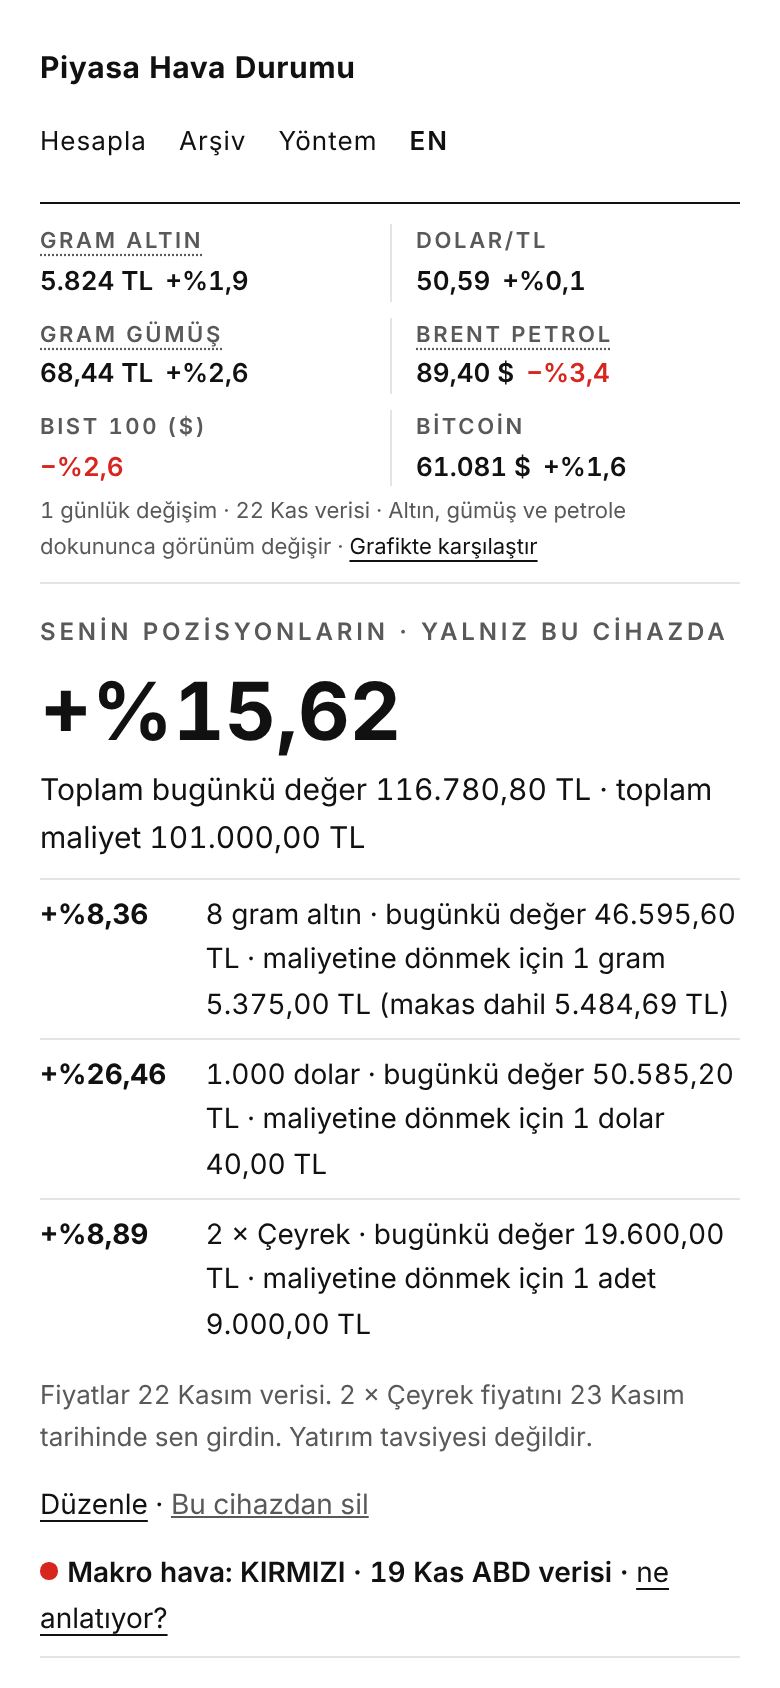
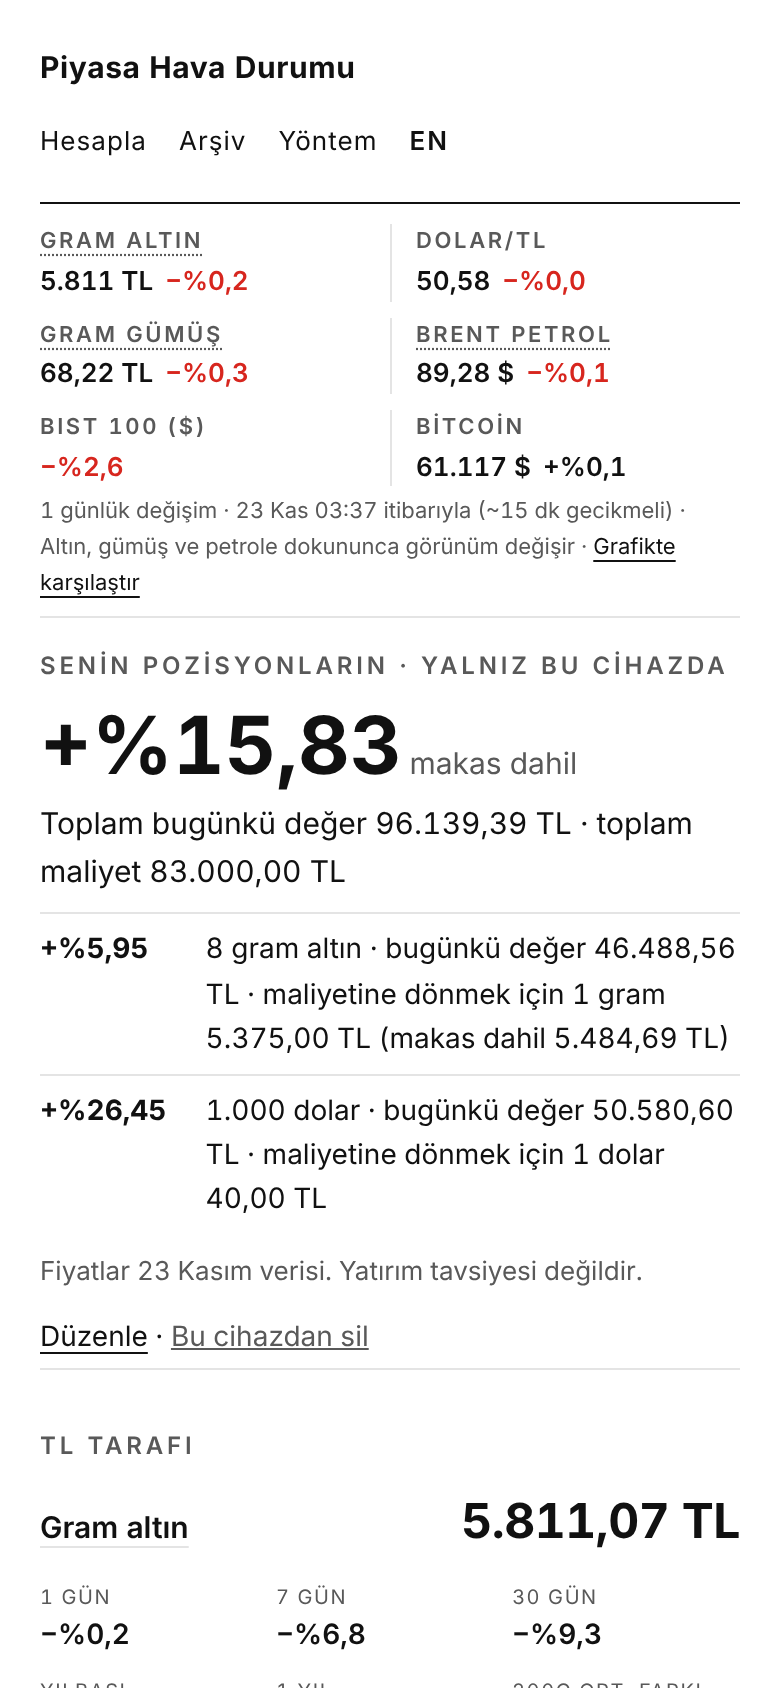
Review round 5: contextual guide links, macro line hidden next to personal positions, spread-deducted headline, falling-rate scenario, calculator-first home meta
Claude-Session: https://claude.ai/code/session_01HYDefgn5NWFqFd8ndNssHq

diff --git a/piyasa/pozisyon.js b/piyasa/pozisyon.js
@@ -85,19 +85,27 @@
     if (rows.length === 1) {
       var x = rows[0];
       host.appendChild(el("p", "label", L("Senin pozisyonun · yalnız bu cihazda", "Your position · on this device only")));
-      host.appendChild(el("p", "poz-big" + (x.r.plPct < 0 ? " neg" : ""), pct(x.r.plPct)));
-      host.appendChild(el("p", "poz-line", x.line));
+      // with a spread, the headline number is what selling today would really give (spread deducted)
+      var pl1 = x.r.spreadPct ? x.r.netPlPct : x.r.plPct;
+      var big1 = el("p", "poz-big" + (pl1 < 0 ? " neg" : ""), pct(pl1));
+      if (x.r.spreadPct) big1.appendChild(el("span", "poz-sub", L(" makas dahil", " after spread")));
+      host.appendChild(big1);
+      host.appendChild(el("p", "poz-line", x.line + (x.r.spreadPct ? L(" · makassız ", " · before spread ") + pct(x.r.plPct) : "")));
     } else {
       host.appendChild(el("p", "label", L("Senin pozisyonların · yalnız bu cihazda", "Your positions · on this device only")));
       // totals in TL; a total P/L only when every cost was entered in TL (no guessing past exchange rates)
-      var valTl = 0, costTl = 0, allTl = true;
+      var valTl = 0, costTl = 0, allTl = true, anySpread = false;
       rows.forEach(function (x) {
-        valTl += x.r.ccy === "USD" ? x.r.value * u : x.r.value;
+        var v = x.r.spreadPct ? x.r.netValue : x.r.value;      // spread deducted where the user entered one
+        if (x.r.spreadPct) anySpread = true;
+        valTl += x.r.ccy === "USD" ? v * u : v;
         if (x.r.ccy === "TL") costTl += x.r.costTotal; else allTl = false;
       });
       if (allTl && costTl > 0) {
         var tp = (valTl / costTl - 1) * 100;
-        host.appendChild(el("p", "poz-big" + (tp < 0 ? " neg" : ""), pct(tp)));
+        var bigT = el("p", "poz-big" + (tp < 0 ? " neg" : ""), pct(tp));
+        if (anySpread) bigT.appendChild(el("span", "poz-sub", L(" makas dahil", " after spread")));
+        host.appendChild(bigT);
         host.appendChild(el("p", "poz-line", L("Toplam bugünkü değer ", "Total value today ") + money(valTl, "TL") + L(" · toplam maliyet ", " · total cost ") + money(costTl, "TL")));
       } else {
         host.appendChild(el("p", "poz-big", money(valTl, "TL")));
@@ -107,7 +115,8 @@
       var ul = el("ul", "poz-rows");
       rows.forEach(function (x) {
         var li = el("li");
-        li.appendChild(el("span", "poz-pl" + (x.r.plPct < 0 ? " neg" : ""), pct(x.r.plPct)));
+        var plr = x.r.spreadPct ? x.r.netPlPct : x.r.plPct;
+        li.appendChild(el("span", "poz-pl" + (plr < 0 ? " neg" : ""), pct(plr)));
         li.appendChild(el("span", null, x.line));
         ul.appendChild(li);
       });
@@ -133,12 +142,17 @@
       host.hidden = true;
       var tl = document.querySelector(".tl-link.top");
       if (tl) tl.hidden = false;
+      var ml2 = document.getElementById("macro-line");
+      if (ml2 && ml2.firstChild) { ml2.removeAttribute("data-hide"); ml2.hidden = false; }
     });
     act.appendChild(del);
     host.appendChild(act);
     host.hidden = false;
     var tlLink = document.querySelector(".tl-link.top");     // the card already links to the calculator
     if (tlLink) tlLink.hidden = true;
+    // keep the macro level away from personal positions (it is a US-data market summary, not about them)
+    var ml = document.getElementById("macro-line");
+    if (ml) { ml.setAttribute("data-hide", "1"); ml.hidden = true; }
   }
 
   fetch(DATA + "tl.json", { cache: "no-cache", credentials: "omit", referrerPolicy: "no-referrer" })

diff --git a/piyasa/index.html b/piyasa/index.html
@@ -5,16 +5,16 @@
 <meta name="viewport" content="width=device-width,initial-scale=1">
 <meta http-equiv="Content-Security-Policy" content="default-src 'self'; script-src 'self'; style-src 'self'; font-src 'self'; img-src 'self' data:; connect-src 'self' https://raw.githubusercontent.com; base-uri 'self'; form-action 'none'; object-src 'none'">
 <meta name="referrer" content="strict-origin-when-cross-origin">
-<title>Piyasa Hava Durumu — günlük makro hava, gram altın, dolar/TL</title>
-<meta name="description" content="Türk yatırımcı için sakin, günlük piyasa verisi: likidite, dolar, kredi, nakde kaçış ve petrol kurallarından derlenen makro hava seviyesi. Yatırım tavsiyesi değildir.">
+<title>Piyasa Hava Durumu — altın ve dolar pozisyon hesaplama, günlük piyasa</title>
+<meta name="description" content="Gram altın, çeyrek, dolar ve euro birikimin bugün ne durumda? Maliyetini gir, kâr/zarar ve makas dahil başa baş fiyatını gör; günlük piyasa özeti sade Türkçe. Verin cihazından çıkmaz. Yatırım tavsiyesi değildir.">
 <link rel="canonical" href="https://samiboran.github.io/sweeplab/piyasa/">
 <link rel="alternate" hreflang="tr" href="https://samiboran.github.io/sweeplab/piyasa/">
 <link rel="alternate" hreflang="en" href="https://samiboran.github.io/sweeplab/piyasa/?lang=en">
 <meta property="og:type" content="website">
 <meta property="og:site_name" content="Piyasa Hava Durumu">
 <meta property="og:locale" content="tr_TR">
-<meta property="og:title" content="Piyasa Hava Durumu — günlük makro hava">
-<meta property="og:description" content="Likidite, dolar, kredi, nakde kaçış ve petrol: dokuz kuraldan derlenen günlük makro hava; gram altın, gram gümüş, dolar/TL ve BIST 100. Yatırım tavsiyesi değildir.">
+<meta property="og:title" content="Piyasa Hava Durumu — altınım, dolarım ne durumda?">
+<meta property="og:description" content="Maliyetini gir, kâr/zarar ve makas dahil başa baş fiyatını gör; gram altın, gümüş, dolar/TL, BIST 100 ve günlük piyasa özeti. Yatırım tavsiyesi değildir.">
 <meta property="og:url" content="https://samiboran.github.io/sweeplab/piyasa/">
 <meta property="og:image" content="https://raw.githubusercontent.com/samiboran/sweeplab/data-feed/data/site/og.png">
 <meta property="og:image:width" content="1200">
@@ -22,8 +22,8 @@
 <meta property="og:image:alt" content="Günün makro hava kartı: tarih ve seviye">
 <meta name="twitter:card" content="summary_large_image">
 <meta name="twitter:image" content="https://raw.githubusercontent.com/samiboran/sweeplab/data-feed/data/site/og.png">
-<meta name="twitter:title" content="Piyasa Hava Durumu — günlük makro hava">
-<meta name="twitter:description" content="Dokuz kuraldan derlenen günlük makro hava ve TL tarafı. Yatırım tavsiyesi değildir.">
+<meta name="twitter:title" content="Piyasa Hava Durumu — altınım, dolarım ne durumda?">
+<meta name="twitter:description" content="Maliyetini gir, kâr/zarar ve makas dahil başa baş fiyatını gör; günlük piyasa özeti sade Türkçe. Yatırım tavsiyesi değildir.">
 <link rel="preload" href="fonts/inter-latin-700-normal.woff2" as="font" type="font/woff2" crossorigin>
 <link rel="icon" href="favicon.svg" type="image/svg+xml">
 <link rel="stylesheet" href="style.css">

diff --git a/piyasa/hesapla.js b/piyasa/hesapla.js
@@ -301,6 +301,7 @@
     if (r.spreadPct) out.appendChild(el("p", "mute small", L(
       "Makas satırları, piyasa fiyatı yerine bozdururken eline geçecek fiyatla hesaplanır. Makası sen girdin; gerçek makas yere ve saate göre değişir.",
       "The spread rows use the price you would actually receive when selling instead of the market price. You entered the spread; real spreads vary by dealer and time.")));
+    if (r.spreadPct) out.appendChild(guide(L("Makas nasıl hesaplanır?", "How is the spread calculated?"), "altin-hesaplama.html#makas"));
     related(a, out);
 
     if (a === "bist100" || a === "diger" || a === "euro") return;
@@ -317,7 +318,8 @@
     var b2 = el("tbody");
     r.scenarios.forEach(function (sc) {
       var tr = el("tr");
-      tr.appendChild(el("th", null, num(sc.usdtry, 2) + (sc.shockPct ? (EN ? " (+" + sc.shockPct + "%)" : " (+%" + sc.shockPct + ")") : L(" (bugün)", " (today)"))));
+      var sg = sc.shockPct > 0 ? "+" : "−", ab = Math.abs(sc.shockPct);
+      tr.appendChild(el("th", null, num(sc.usdtry, 2) + (sc.shockPct ? (EN ? " (" + sg + ab + "%)" : " (" + sg + "%" + ab + ")") : L(" (bugün)", " (today)"))));
       if (showBe) tr.appendChild(el("td", null, num(r.ccy === "TL" ? sc.breakevenUsd : sc.breakevenTl, 2)));
       tr.appendChild(el("td", null, sc.valueTl == null ? "—" : num(sc.valueTl, 0)));
       b2.appendChild(tr);
@@ -335,6 +337,7 @@
         ? "Orta sütun: TL maliyetine dönmek için varlığın dolar fiyatının ne olması gerektiği" + (A.metal ? " (1 ons = 31,1035 gram)" : "") + ". Değer sütunu: dolar fiyatı bugünkü gibi kalırsa TL karşılığı."
         : "Maliyet dolar cinsinden; kur yalnız TL karşılığını değiştirir. Değer sütunu: dolar fiyatı bugünkü gibi kalırsa TL karşılığı.";
     out.appendChild(el("p", "mute small", note));
+    if (a !== "dolar") out.appendChild(guide(L("Kur ile altın fiyatı nasıl bağlı?", "How are the exchange rate and gold linked?"), "kolay-ekonomi.html#kur-altin"));
   }
 
   // ---- "Bu hafta ne oldu?": the asset's 7-day move + up to 2 items of today's digest on the same topic.
@@ -344,6 +347,10 @@
     dolar: ["Türkiye", "Merkez bankaları"], euro: ["Türkiye", "Merkez bankaları"], bist100: ["Türkiye", "Şirketler"],
     btc: ["Kripto"], eth: ["Kripto"] };
   var TL_ID = { gram_altin: "gram_altin", gram_gumus: "gram_gumus", dolar: "dolar", bist100: "bist100_usd", btc: "btc", eth: "eth" };
+  function guide(text, href) {           // contextual link from a result into the plain-language pages
+    var p = el("p", "guide-link small"), x = el("a", null, text + " →");
+    x.href = href; p.appendChild(x); return p;
+  }
   function related(a, out) {
     if (!OZET_ASKED) {
       OZET_ASKED = true;
@@ -386,6 +393,10 @@
     var ml = el("a", null, L("Günün özeti ve TL tarafı ana sayfada", "Today's digest and the lira side on the home page"));
     ml.href = "./" + (EN ? "?lang=en" : "");
     more.appendChild(ml);
+    more.appendChild(document.createTextNode(" · "));
+    var ke = el("a", null, L("Kolay ekonomi: kur, enflasyon, faiz", "Plain economics: rates, inflation, interest"));
+    ke.href = "kolay-ekonomi.html";
+    more.appendChild(ke);
     out.appendChild(more);
   }
 

diff --git a/tests/hesapla_test.js b/tests/hesapla_test.js
@@ -1,6 +1,7 @@
 // node tests/hesapla_test.js — position calculator unit tests (S4d)
 const assert = require("assert");
 const C = require("../piyasa/hesapla-core.js");
+const at = (r, k) => r.scenarios.filter(s => s.shockPct === k)[0];
 const close = (a, b, eps) => assert.ok(Math.abs(a - b) < eps, `${a} != ${b}`);
 
 // spec: cost 102 TL/gram silver -> breakeven ounce at USDTRY 50.58 ≈ $62.7, at 60 ≈ $52.9
@@ -12,23 +13,23 @@ const r = C.compute("gram_gumus", 102, "TL", 10, p);
 close(r.plPct, (85 / 102 - 1) * 100, 1e-9);
 close(r.toBreakevenPct, (102 / 85 - 1) * 100, 1e-9);
 close(r.value, 850, 1e-9);
-close(r.scenarios[0].breakevenUsd, 62.72, 0.01);
-assert.strictEqual(r.scenarios[0].breakevenUsdUnit, "ons");
-close(r.scenarios[2].usdtry, 50.58 * 1.2, 1e-9);
+close(at(r, 0).breakevenUsd, 62.72, 0.01);
+assert.strictEqual(at(r, 0).breakevenUsdUnit, "ons");
+close(at(r, 20).usdtry, 50.58 * 1.2, 1e-9);
 // TL value with silver USD price unchanged and +10% USDTRY -> +10%
-close(r.scenarios[1].valueTl, 850 * 1.1, 1e-6);
+close(at(r, 10).valueTl, 850 * 1.1, 1e-6);
 
 // BTC priced in USD, cost entered in USD
 const b = C.compute("btc", 50000, "USD", 0.5, p);
 close(b.plPct, 20, 1e-9);
-close(b.scenarios[1].breakevenTl, 50000 * 50.58 * 1.1, 1e-6);
+close(at(b, 10).breakevenTl, 50000 * 50.58 * 1.1, 1e-6);
 // BTC with TL cost
 const bt = C.compute("btc", 3000000, "TL", 1, p);
 close(bt.price, 60000 * 50.58, 1e-6);
 
 // dolar and BIST 100 are TL-only
 assert.strictEqual(C.compute("dolar", 40, "USD", 100, p).ccy, "TL");
-assert.strictEqual(C.compute("bist100", 9000, "TL", 1, p).scenarios[1].valueTl, null);
+assert.strictEqual(at(C.compute("bist100", 9000, "TL", 1, p), 10).valueTl, null);
 
 // invalid input
 assert.strictEqual(C.compute("gram_altin", 0, "TL", 1, p), null);
@@ -54,7 +55,7 @@ assert.strictEqual(av.amount, 8); close(av.cost, 5375, 1e-9); assert.strictEqual
 assert.strictEqual(C.averageLots([]), null);
 // custom asset (çeyrek): user-entered price, TL only, no TL scenario values
 const cq = C.compute("diger", 9000, "USD", 2, { usdtry: 50, custom_tl: 9900 });
-assert.strictEqual(cq.ccy, "TL"); close(cq.plPct, 10, 1e-9); assert.strictEqual(cq.scenarios[1].valueTl, null);
+assert.strictEqual(cq.ccy, "TL"); close(cq.plPct, 10, 1e-9); assert.strictEqual(at(cq, 10).valueTl, null);
 assert.strictEqual(C.compute("diger", 9000, "TL", 2, { usdtry: 50 }), null);
 console.log("hesapla lots/custom: ok");
 
@@ -66,3 +67,7 @@ assert.deepStrictEqual(st.list.map(x => x.a), ["dolar", "gram_gumus"]); assert.s
 assert.strictEqual(C.normalizeStore(null).list.length, 0);
 console.log("hesapla store: ok");
 
+
+// falling-rate row exists
+assert.strictEqual(r.scenarios[0].shockPct, -10); close(r.scenarios[0].usdtry, 50.58 * 0.9, 1e-9);
+console.log("hesapla scenarios: ok");

diff --git a/piyasa/altin-hesaplama.html b/piyasa/altin-hesaplama.html
@@ -37,21 +37,22 @@
     <p class="tl-link top"><a href="hesapla.html">Hesaplayıcıyı aç: maliyetini gir, sonucu hemen gör</a></p>
 
     <section>
-      <h2>1. Temel hesap</h2>
+      <h2 id="temel">1. Temel hesap</h2>
       <p>10 gram altını gramı ortalama 5.800 TL'den aldığını düşün. Toplam maliyetin 10 × 5.800 = <strong>58.000 TL</strong>.</p>
       <p>Bugün gram altın 5.715 TL ise elindeki altının değeri 10 × 5.715 = <strong>57.150 TL</strong>. Fark −850 TL, yani maliyetine göre <strong>−%1,47</strong>.</p>
       <p>Maliyetine dönmek için gram fiyatının yeniden 5.800 TL'ye çıkması gerekir; bugünden <strong>%1,49</strong>'luk bir yükseliş.</p>
     </section>
 
     <section>
-      <h2>2. Makas: bozdururken eline geçen tutar</h2>
+      <h2 id="makas">2. Makas: bozdururken eline geçen tutar</h2>
       <p>Kuyumcu ve bankalar altını sana sattıkları fiyattan daha düşük bir fiyatla geri alır. Bu farka makas denir. Makas %2 ise yukarıdaki 57.150 TL'lik altını bozdurduğunda eline yaklaşık 57.150 × 0,98 = <strong>56.007 TL</strong> geçer.</p>
       <p>Makas hesaba katılınca maliyetine dönmek için gereken piyasa fiyatı 5.800 ÷ 0,98 = <strong>5.918,37 TL</strong> olur; bugünden %3,56'lık yükseliş. Yani makas, başa baş noktasını yukarı iter.</p>
       <p>Makası bilmiyorsan aldığın yerin o anki satış ve alış fiyatına bak: satış 5.772, alış 5.658 ise makas (5.772 − 5.658) ÷ 5.772 ≈ %1,98. Hesaplayıcıda bu iki fiyatı yazınca makas kendiliğinden hesaplanır.</p>
+      <p>Not: sitedeki gram fiyatı ons ve kurdan hesaplanan piyasa fiyatıdır; kuyumcunun alış ve satış fiyatı genellikle bunun iki yanındadır. Makasın tamamını bu fiyattan düşmek, başa baş fiyatını biraz yüksek gösterebilir; en doğru sonuç için bozdurma fiyatını "Diğer (fiyatı sen gir)" ile girebilirsin.</p>
     </section>
 
     <section>
-      <h2>3. Farklı zamanlarda birden çok alım</h2>
+      <h2 id="ortalama">3. Farklı zamanlarda birden çok alım</h2>
       <p>5 gramı 5.000 TL'den, 3 gramı 6.000 TL'den aldıysan ortalama maliyet basit ortalama değil, ağırlıklı ortalamadır: (5 × 5.000 + 3 × 6.000) ÷ 8 = <strong>5.375 TL</strong>. Hesaplayıcıdaki "Farklı fiyatlardan birden çok alım" bölümü bunu senin yerine yapar.</p>
     </section>
 

diff --git a/piyasa/kolay-ekonomi.html b/piyasa/kolay-ekonomi.html
@@ -44,14 +44,14 @@
       <h2 id="kur-altin">Dolar yükselince gram altın neden yükselir?</h2>
       <p>Altının dünya fiyatı dolarla ve "ons" başına belirlenir. Türkiye'deki gram altın fiyatı bundan hesaplanır: <strong>gram = ons fiyatı × dolar/TL ÷ 31,1035</strong>.</p>
       <p>Yani gram altını iki şey birlikte belirler: altının dünyadaki fiyatı ve kur. Ons 3.600 $, kur 50,50 TL iken gram yaklaşık 5.845 TL'dir. Ons hiç değişmeden kur %10 artıp 55,55 TL olursa gram da yaklaşık %10 artar: 6.430 TL.</p>
-      <p>İkisi ters yöne de gidebilir. Aynı günlerde ons %10 düşüp 3.240 $'a inerse, kurdaki %10'luk artış bunu neredeyse dengeler; gram yaklaşık 5.787 TL olur. Gram altındaki bir değişimin kurdan mı, onstan mı geldiğini görmek için ana sayfadaki bantta ons altına dokunabilirsin.</p>
+      <p>İkisi ters yöne de gidebilir. Aynı günlerde ons %10 düşüp 3.240 $'a inerse, kurdaki %10'luk artış bunu neredeyse dengeler; gram yaklaşık 5.787 TL olur. Gram altındaki bir değişimin kurdan mı, onstan mı geldiğini görmek için ana sayfadaki bantta "Gram altın"ın üzerine dokun; ons fiyatı ve değişimi görünür.</p>
     </section>
 
     <section>
       <h2 id="enflasyon">Enflasyon birikimini nasıl etkiler?</h2>
       <p>Enflasyon, fiyatların genel olarak artmasıdır. Birikimin TL olarak artsa bile aynı dönemde fiyatlar daha çok arttıysa, o parayla eskisinden daha az şey alabilirsin.</p>
       <p>Buna "gerçek getiri" denir: <strong>(1 + birikimin artışı) ÷ (1 + enflasyon) − 1</strong>. Örnek: birikimin bir yılda %30 arttı, aynı yıl enflasyon %35 oldu. Gerçek getiri 1,30 ÷ 1,35 − 1 ≈ <strong>−%3,7</strong>. TL olarak kârdasın ama alım gücün biraz azaldı.</p>
-      <p>Türkiye'de resmî enflasyonu TÜİK açıklar (tüketici fiyat endeksi, TÜFE). Hesaplayıcıya ileride "aldığın tarihten bu yana enflasyon" satırı eklenecek.</p>
+      <p>Türkiye'de resmî enflasyonu TÜİK açıklar (tüketici fiyat endeksi, TÜFE).</p>
     </section>
 
     <section>

diff --git a/piyasa/i18n-pages.js b/piyasa/i18n-pages.js
@@ -20,7 +20,7 @@
     "Çeyrek ve cumhuriyet altınının fiyatına işçilik ve piyasa farkı karışır; gram fiyatından doğru hesaplanamaz. Bu yüzden bugünkü fiyatı kuyumcundan ya da bankandan bakıp sen yazarsın.":
       "Gold coin prices include workmanship and a market premium, so they cannot be derived correctly from the gram price. Check today's price with your dealer or bank and enter it yourself.",
     "Farklı fiyatlardan birden çok alım mı yaptın? Ortalamayı hesapla": "Bought several times at different prices? Work out the average",
-    "Alım ekle": "Add purchase",
+    "Alım ekle": "Add purchase", "Ağırlıklı ortalama nedir?": "What is a weighted average? (Turkish)",
     "Bu cihazdaki pozisyonların": "Your positions on this device",
     "Yeni pozisyon ekle": "Add a position", "Bu pozisyonu sil": "Delete this position", "Dosyaya kaydet": "Save to a file",
     "Başka cihazdan dosya yükle:": "Load a file from another device:",

diff --git a/piyasa/hesapla.html b/piyasa/hesapla.html
@@ -84,6 +84,7 @@
         <div id="lot-rows"></div>
         <button type="button" class="lot-add" id="lot-add">Alım ekle</button>
         <p class="mute small" id="lot-sum" aria-live="polite">Her satıra bir alımın miktarını ve birim fiyatını yaz; ortalama maliyet ve toplam miktar yukarıdaki alanlara yazılır.</p>
+        <p class="mute small"><a href="altin-hesaplama.html#ortalama">Ağırlıklı ortalama nedir?</a></p>
       </details>
       <label for="makas" id="makas-label">Makas / komisyon (%) — isteğe bağlı</label>
       <input type="text" id="makas" inputmode="decimal" enterkeyhint="done" placeholder="örn. 2" aria-describedby="makas-not">

diff --git a/piyasa/style.css b/piyasa/style.css
@@ -400,3 +400,8 @@ ul.poz-rows .poz-pl.neg{color:var(--red)}
 .related{border-left:2px solid var(--red);padding:2px 0 2px 12px;margin:6px 0 8px}
 .related p{margin:0 0 8px;font-size:15px;line-height:1.5}
 .related .rel-line{font-weight:600}
+.poz-sub{font-size:15px;font-weight:400;color:var(--mute);letter-spacing:0}
+.related{border-left-color:var(--rule)}
+.macro-line a{white-space:nowrap}
+.guide-link{margin:6px 0}
+.guide-link a{color:var(--ink)}

diff --git a/piyasa/hesapla-core.js b/piyasa/hesapla-core.js
@@ -74,7 +74,7 @@
       r.netBreakeven = cost / k;                       // market price at which the cash received = cost
       r.netToBreakevenPct = (r.netBreakeven / cur - 1) * 100;
     }
-    [0, 10, 20].forEach(function (k) {
+    [-10, 0, 10, 20].forEach(function (k) {      // a falling-rate row too, not only rises
       var u = px.usdtry * (1 + k / 100);
       var s = { shockPct: k, usdtry: u };
       if (ccy === "TL") {

diff --git a/piyasa/app.js b/piyasa/app.js
@@ -92,7 +92,7 @@
 
     // One line under the band so the level is visible on the first screen (the full block is further down).
     var ml = $("macro-line");
-    if (ml && lvl && !archived) {
+    if (ml && lvl && !archived && !ml.hasAttribute("data-hide")) {
       ml.textContent = "";
       ml.setAttribute("data-noi18n", "");
       var LV_EN = { YESIL: "GREEN", SARI: "YELLOW", KIRMIZI: "RED" };

diff --git a/docs/SITE_ROADMAP.md b/docs/SITE_ROADMAP.md
@@ -370,3 +370,4 @@ veri) yayımlanır; puanlama kodu (`tools/`), ham girdiler (`data/derivs`,
 - **2026-11-23 (Boran ile canlı, 14.)** — Dördüncü dış değerlendirme (Sonnet 7/10, Opus 6,5/10). Düzeltilen: "Diğer" varlıkta kart, fiyatın girildiği tarihi gösterir (kayıtta `t`); ana sayfa önizlemesi yenilendi (kart varken üstteki hesaplayıcı bağlantısı gizli, çift çizgi yok — eleştiri eski görüntüdendi). Haftalık "EVDS anahtarı hatırlatması" zamanlanmış görevi kuruldu (pazartesi 10:35 İstanbul). Açık öneriler (Boran kararı): birden çok pozisyon (altın + dolar + çeyrek toplamı), makro hava satırını kartın altına/ayrı sayfaya almak, kayıt dışa/içe aktarma, alan adı ve "gram altın maliyet hesaplama" arama sayfası.
 - **2026-11-23 (Boran ile canlı, 15.)** — Önerilen sıra (Boran onayı): (1) makro hava satırı pozisyon kartının altına alındı (kart yoksa bandın hemen altında); (2) birden çok pozisyon: kayıt v3 `{v:3, list, cur}` (en çok 10; v1/v2 kayıtlar otomatik taşınır, `normalizeStore` testli), hesaplayıcıda "Bu cihazdaki pozisyonların" sekmeleri + "Yeni pozisyon ekle" / "Bu pozisyonu sil"; ana sayfa kartı birden çok pozisyonda toplam değer ve (hepsi TL maliyetliyse) toplam kâr/zarar + satır satır liste; (3) `altin-hesaplama.html` örnekli rehber (makas, ağırlıklı ortalama, gram = ons × kur ÷ 31,1035, çeyrek), betiksiz, sitemap'te; (4) "Dosyaya kaydet" / "Başka cihazdan dosya yükle" (yalnız tarayıcıda; dosya `normalizeStore` ile süzülür, 100 KB sınırı). Alan adı ⏸ Boran.
 - **2026-11-23 (Boran ile canlı, 16.)** — Eski "Piyasa sitesi — inşa" zamanlanmış görevi kapatıldı (Boran onayı; talimatı eski sloganı geri isterdi). Hesaplayıcı ↔ ekonomi köprüsü: sonuç altında "Bu hafta ne oldu?" (varlığın 7/30 günlük değişimi tl.json'dan + Günün özeti'nden aynı konudaki en çok 2 haber; özet 3 günden eskiyse gösterilmez; konu eşlemesi: altın/gümüş/diğer → Altın ve emtia, dolar/euro → Türkiye + Merkez bankaları, BIST → Türkiye + Şirketler, kripto → Kripto). Euro varlığı (fetch_tl `EURTRY=X` → `prices.eurtry`; ilk çalışmada geçmiş otomatik doldurulur; o zamana kadar "güncel fiyat yok"). `kolay-ekonomi.html`: kur–altın ilişkisi (formül, örnek), enflasyon ve gerçek getiri, faiz kararı (yön iddiası yok), ons/gram/ayar; ana sayfa "Daha fazlası"nda ve hesaplayıcıda bağlantı, sitemap'te.
+- **2026-11-23 (Boran: "sen ayarla", 17.)** — Beşinci dış değerlendirme (Sonnet 7/10, Opus 6,5/10; ikisi de sayfalardaki bütün aritmetiği doğruladı, hata yok). Uygulanan: (1) kapıdan eve derin bağlantılar — sonuçta "Kur ile altın fiyatı nasıl bağlı? →" (kolay-ekonomi#kur-altin), makas girilince "Makas nasıl hesaplanır? →" (altin-hesaplama#makas), birden çok alımda "Ağırlıklı ortalama nedir?", "Bu hafta ne oldu?" altında Kolay ekonomi bağlantısı; (2) pozisyon kartı varken makro hava satırı gizlenir (kişisel pozisyonun yanında ABD verisiyle seviye gösterilmez; tam bölüm aşağıda kalır); (3) kartın büyük sayısı makas girilen pozisyonlarda makas düşülmüş ("makas dahil"), satırda makassız değer de var; (4) kur senaryo tablosuna −%10 satırı; (5) ana sayfa başlık/açıklama/OG hesaplayıcıyı öne çıkarır; (6) rehberde "makasın tamamını piyasa fiyatından düşmek başa başı biraz yüksek gösterebilir" notu; kolay-ekonomi'de "ileride eklenecek" vaadi kaldırıldı, bant/ons cümlesi düzeltildi; (7) "Bu hafta ne oldu?" kenar çizgisi nötr gri. Açık (Boran kararı): KIRMIZI kelimesi; X/Telegram'da günlük seviye paylaşılırsa "sinyal servisi" görüntüsü riski — paylaşımlarda seviye yerine özet/hesaplayıcı öne çıkmalı.
